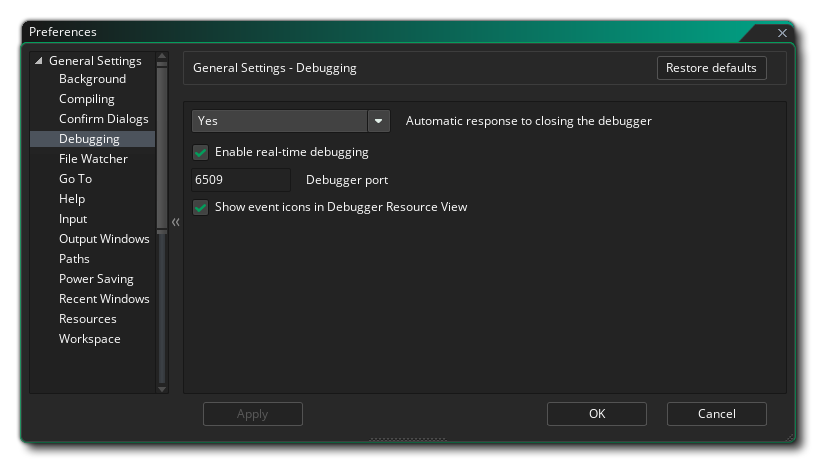
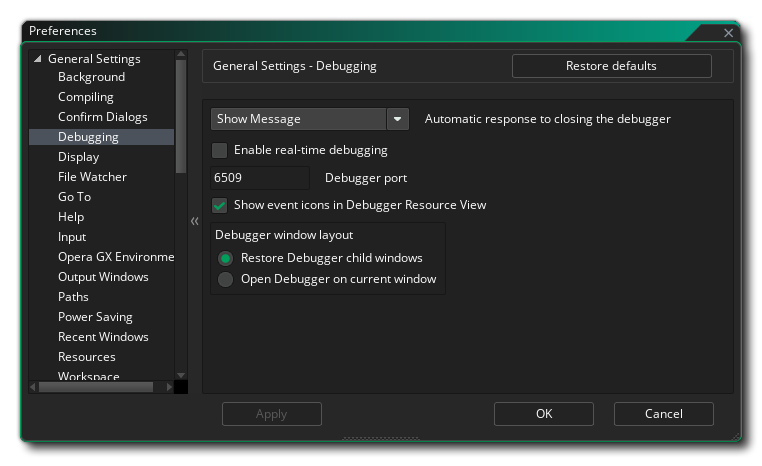
docs(feature): Document new debugger option https://github.com/YoYoGames/GameMaker-Bugs/issues/11894

Changed region(s): [[0.0, 0.0302, 0.9961, 0.9978], [0.2717, 0.5443, 0.5735, 0.635]]

diff --git a/Manual/contents/Setting_Up_And_Version_Information/IDE_Preferences/General/Debugging.htm b/Manual/contents/Setting_Up_And_Version_Information/IDE_Preferences/General/Debugging.htm
@@ -22,6 +22,12 @@
     <li><strong>Enable real-time debugging</strong>: Checking this option will permit you to debug your game projects in real time as you run them from the IDE, without pausing the game in the debugger. This is disabled by default.</li>
     <li><strong>Debugger port</strong>: This sets the port number for the Debug Module to use. The default value is 6509.</li>
     <li><strong>Show event icons in Debugger Resource View</strong>: Set whether icons should be shown in the Debugger resource view. This is checked by default.</li>
+    <li><strong>Debugger window layout</strong>: This affects the behaviour of the IDE windows when the Debugger is started:
+      <ul>
+        <li><strong>Restore Debugger child windows</strong>: This restores the same window configuration from the last time the Debugger was closed, e.g. if you had it on a separate window on a second monitor, that is where it will reappear.</li>
+        <li><strong>Open Debugger on current window</strong>: This forces the Debugger to open in the current IDE window regardless of the window configuration in the last Debugger session.</li>
+      </ul>
+    </li>
   </ul>
   <p> </p>
   <p> </p>
